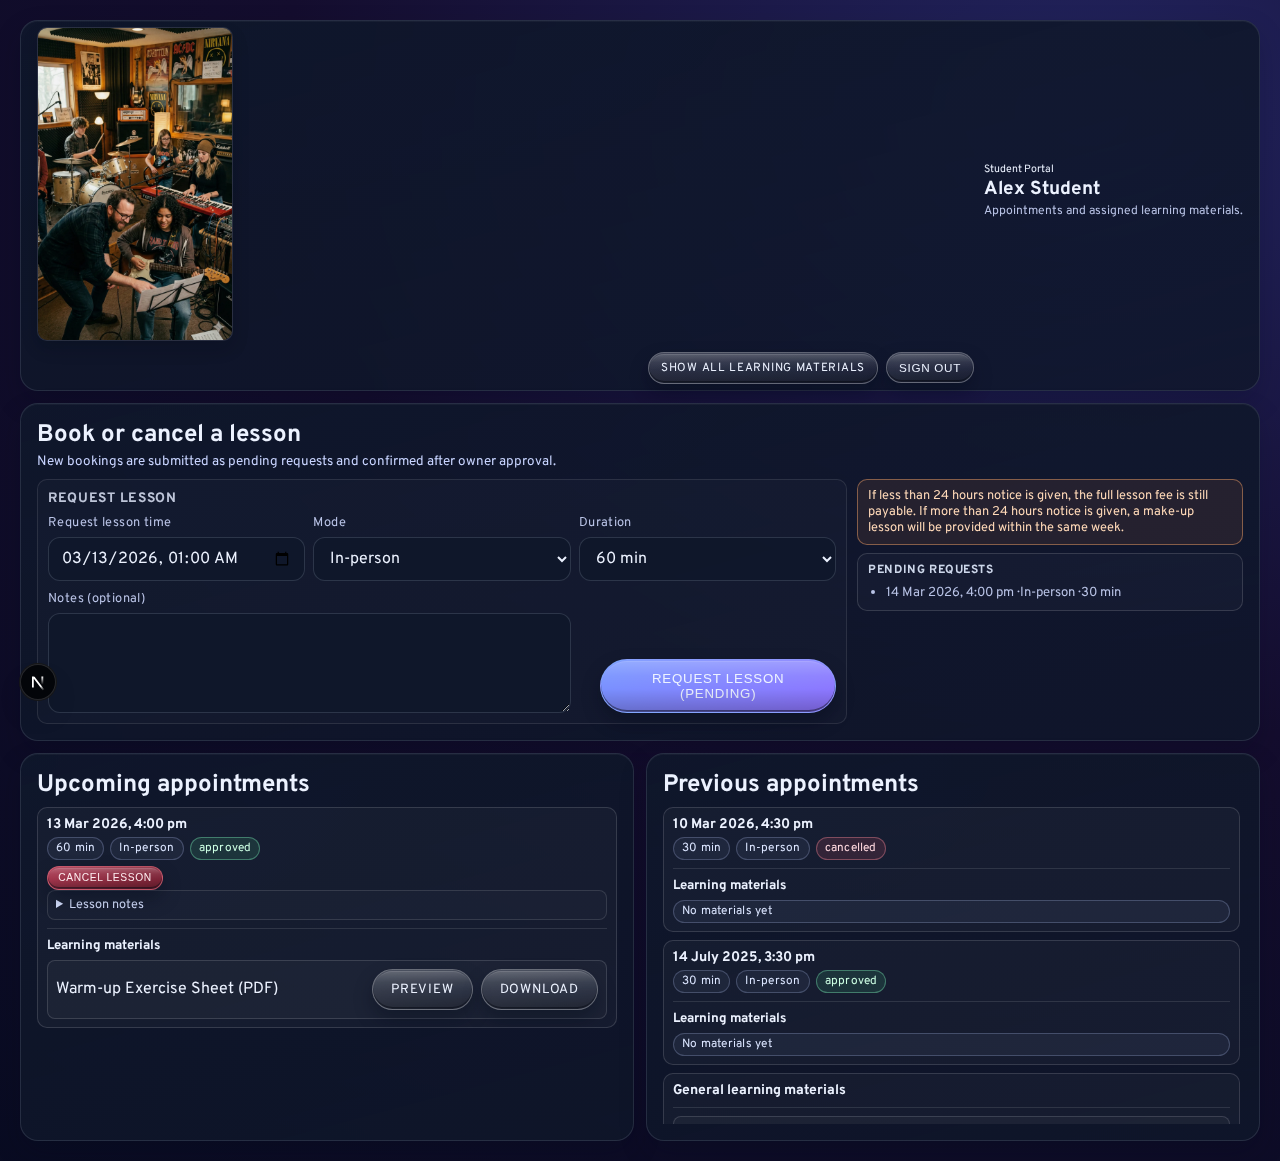
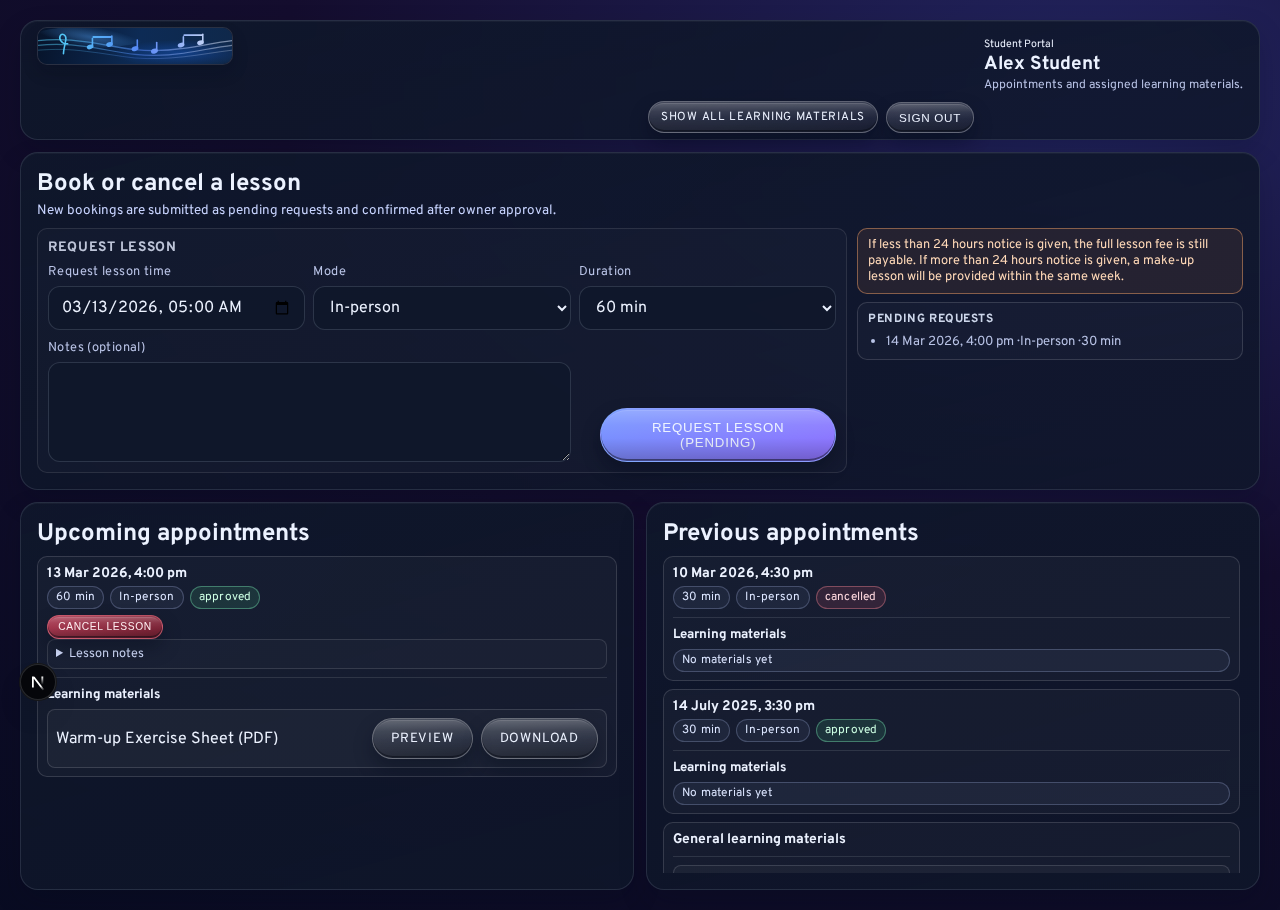
fix(student-portal): update portal artwork and docs screenshot
The student portal header now uses the notes tile illustration instead of the old hero image, while the student login screen keeps its existing artwork. This keeps the portal visual aligned with the intended design without changing the login experience.

The portal screenshot used by the manual, README, and wiki-linked repo assets was regenerated and synced so documentation matches the live student portal view.

diff --git a/src/components/student-portal-client.tsx b/src/components/student-portal-client.tsx
@@ -236,7 +236,7 @@ export function StudentPortalClient(): ReactElement {
           {/* eslint-disable-next-line @next/next/no-img-element */}
           <img
             className={styles["portal-header-illustration"]}
-            src="/images/student-portal-hero.webp"
+            src="/images/student-portal-notes-tile.svg"
             alt="Illustration of music study books and notes"
             width={360}
             height={220}
